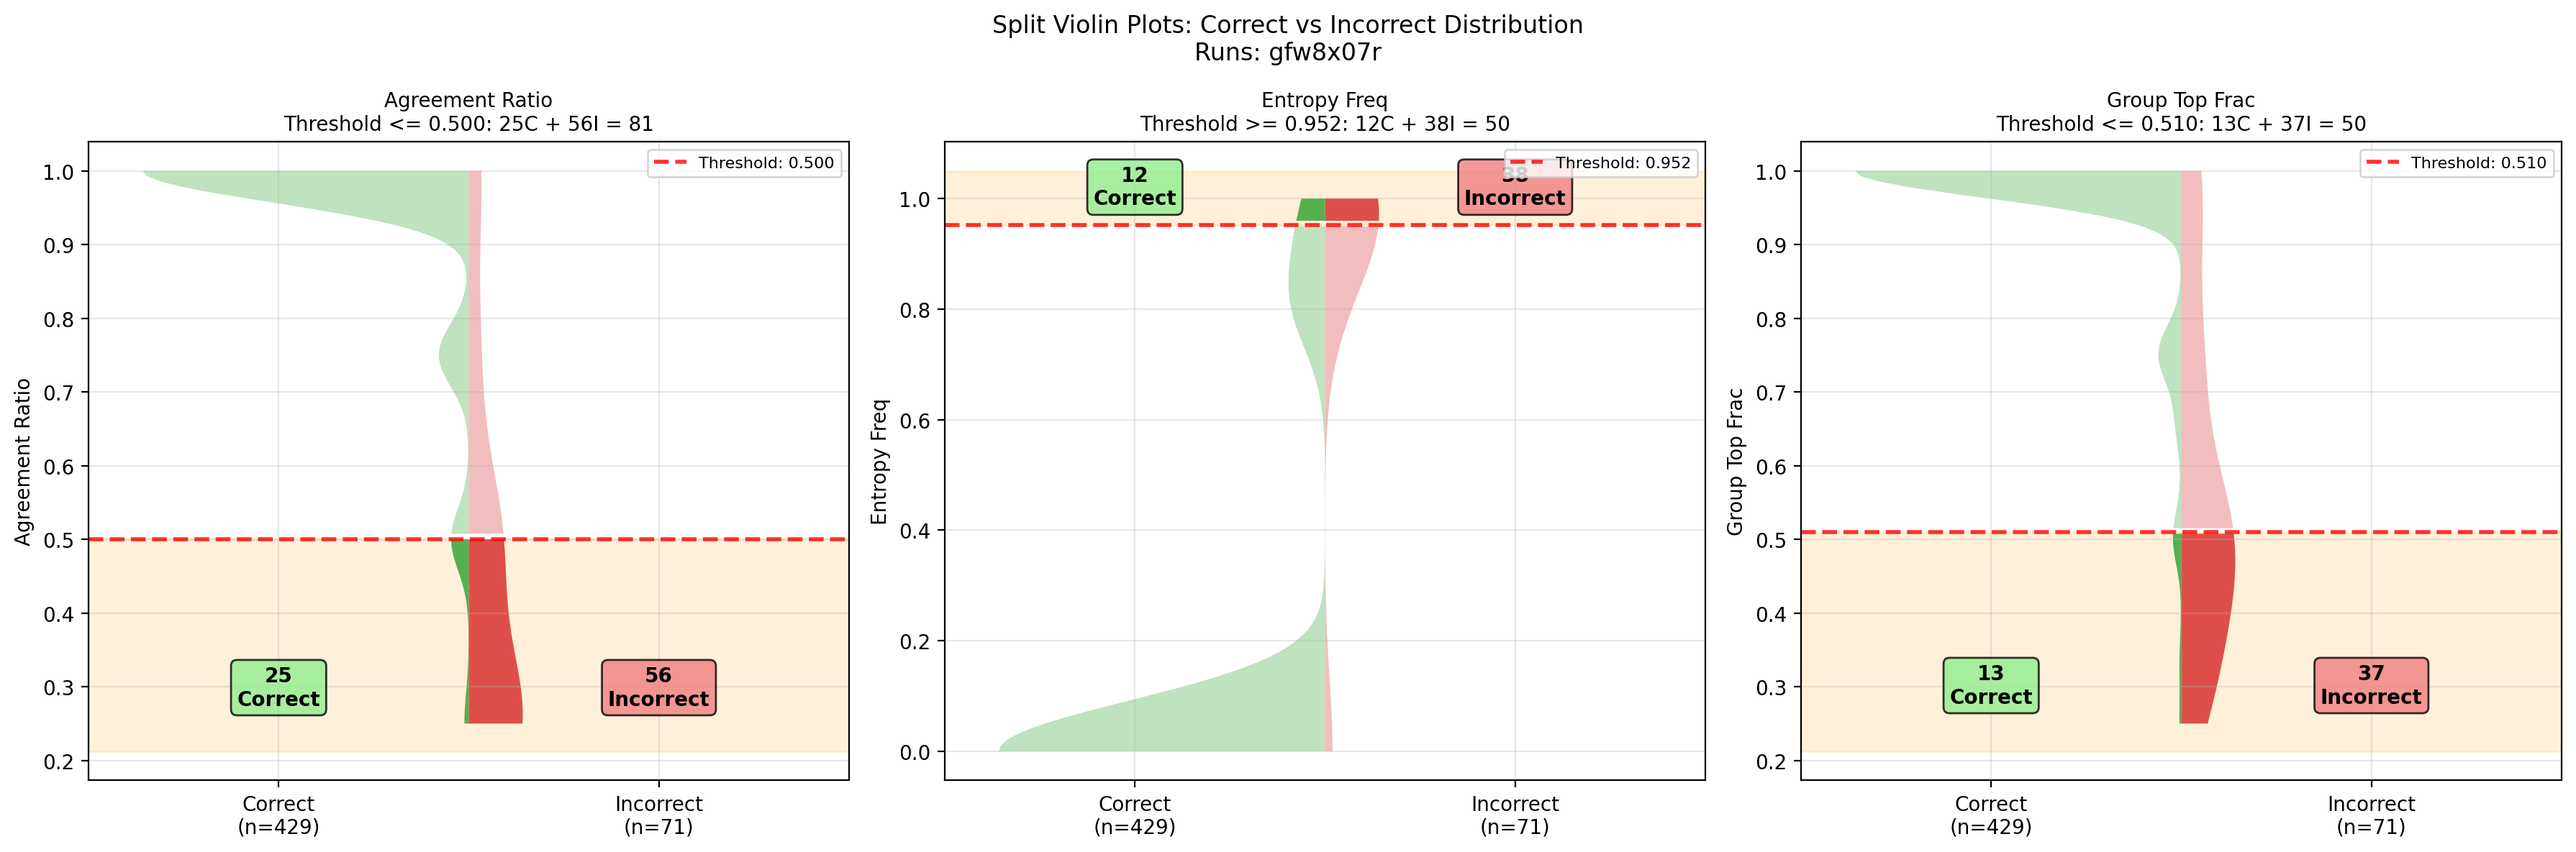
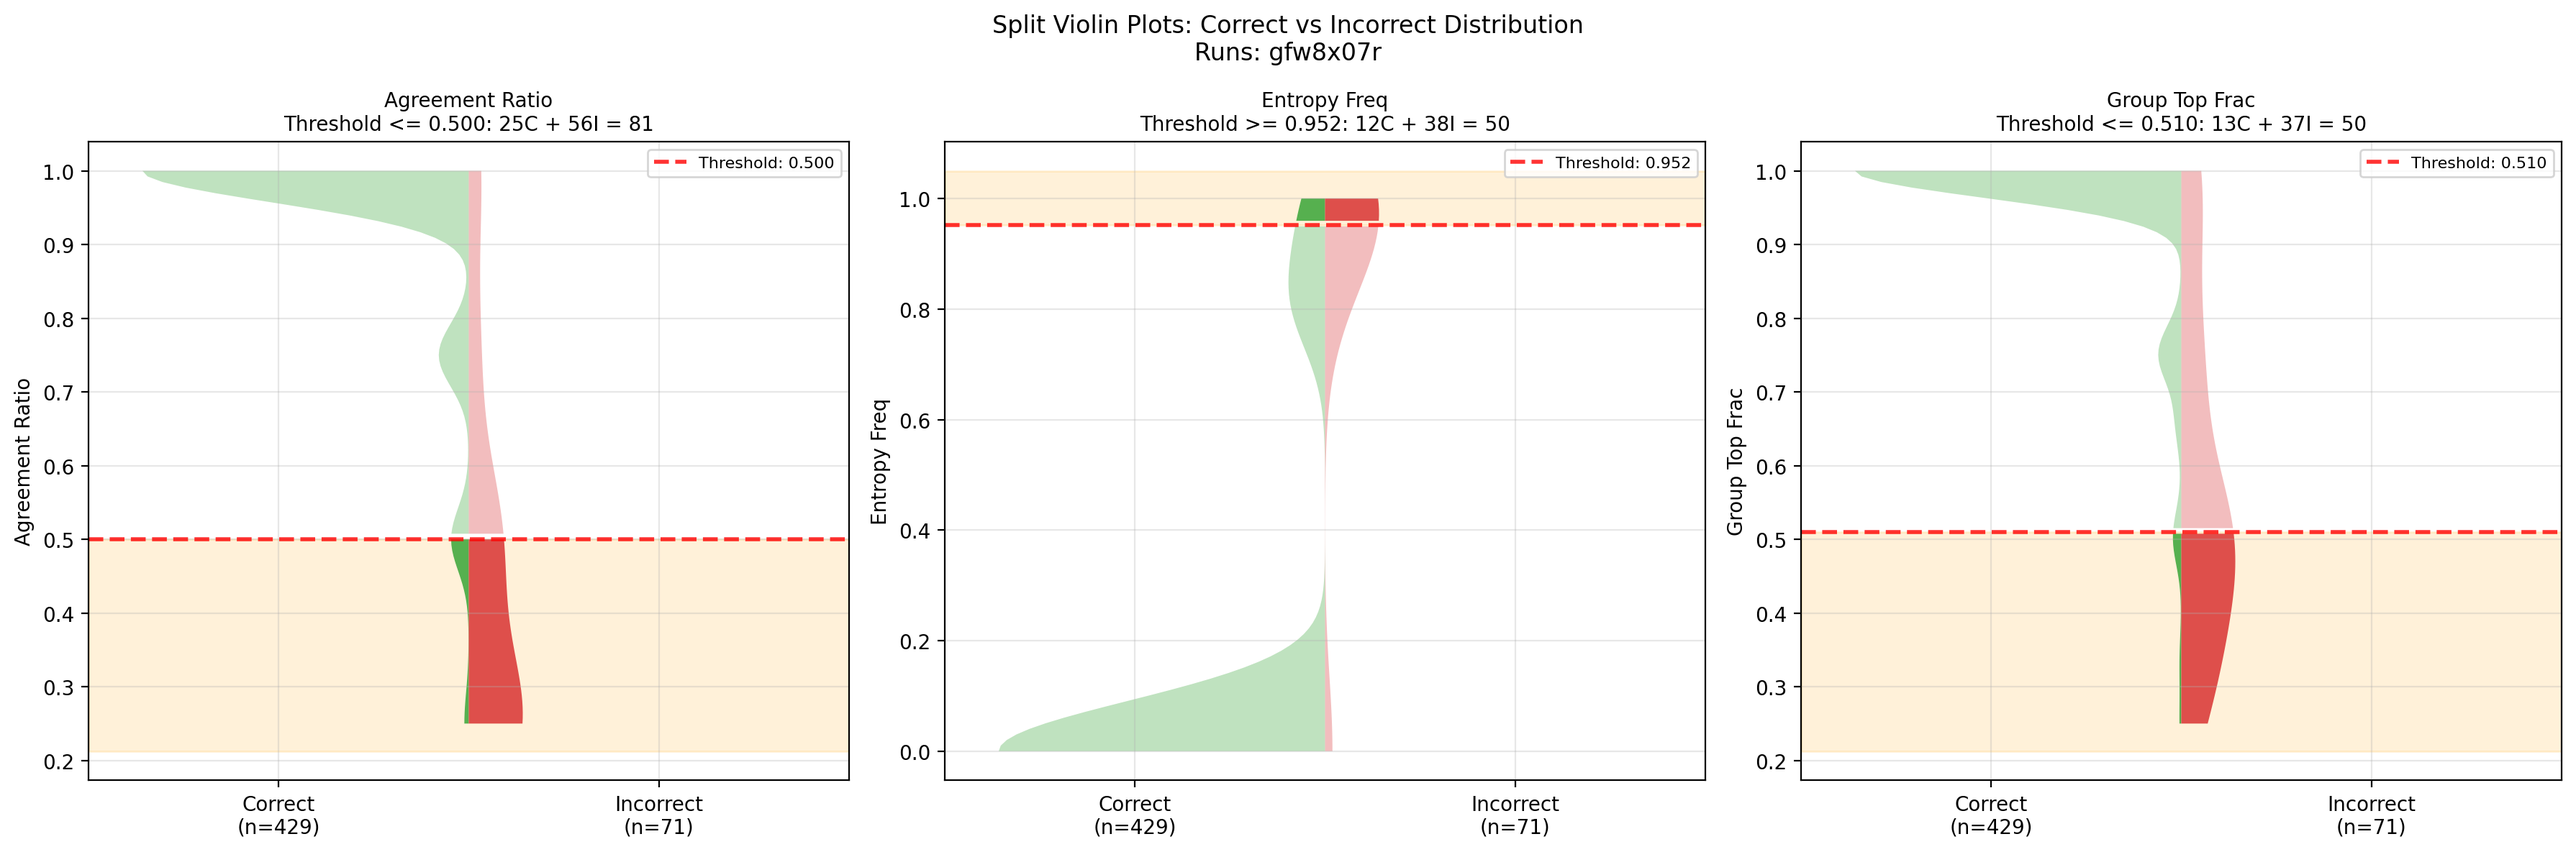
remove text

diff --git a/scripts/selection_2.py b/scripts/selection_2.py
@@ -453,39 +453,6 @@ def create_split_violin_plots(
             label=f"Threshold: {threshold_value:.3f}",
         )
 
-        # Add text annotations showing counts in selected region
-        selected_correct = analysis["correct_selected"]
-        selected_incorrect = analysis["incorrect_selected"]
-
-        # Position text in the selected region
-        if metric in ["agreement_ratio", "group_top_frac"]:
-            text_y = y_fill_min + (y_fill_max - y_fill_min) * 0.3
-        else:
-            text_y = y_fill_min + (y_fill_max - y_fill_min) * 0.7
-
-        # Add count annotations
-        ax.text(
-            0.25,
-            text_y,
-            f"{selected_correct}\nCorrect",
-            ha="center",
-            va="center",
-            fontsize=10,
-            fontweight="bold",
-            bbox=dict(boxstyle="round,pad=0.3", facecolor="lightgreen", alpha=0.8),
-        )
-
-        ax.text(
-            0.75,
-            text_y,
-            f"{selected_incorrect}\nIncorrect",
-            ha="center",
-            va="center",
-            fontsize=10,
-            fontweight="bold",
-            bbox=dict(boxstyle="round,pad=0.3", facecolor="lightcoral", alpha=0.8),
-        )
-
         # Customize plot
         ax.set_xlim(0, 1)
         ax.set_xticks([0.25, 0.75])
